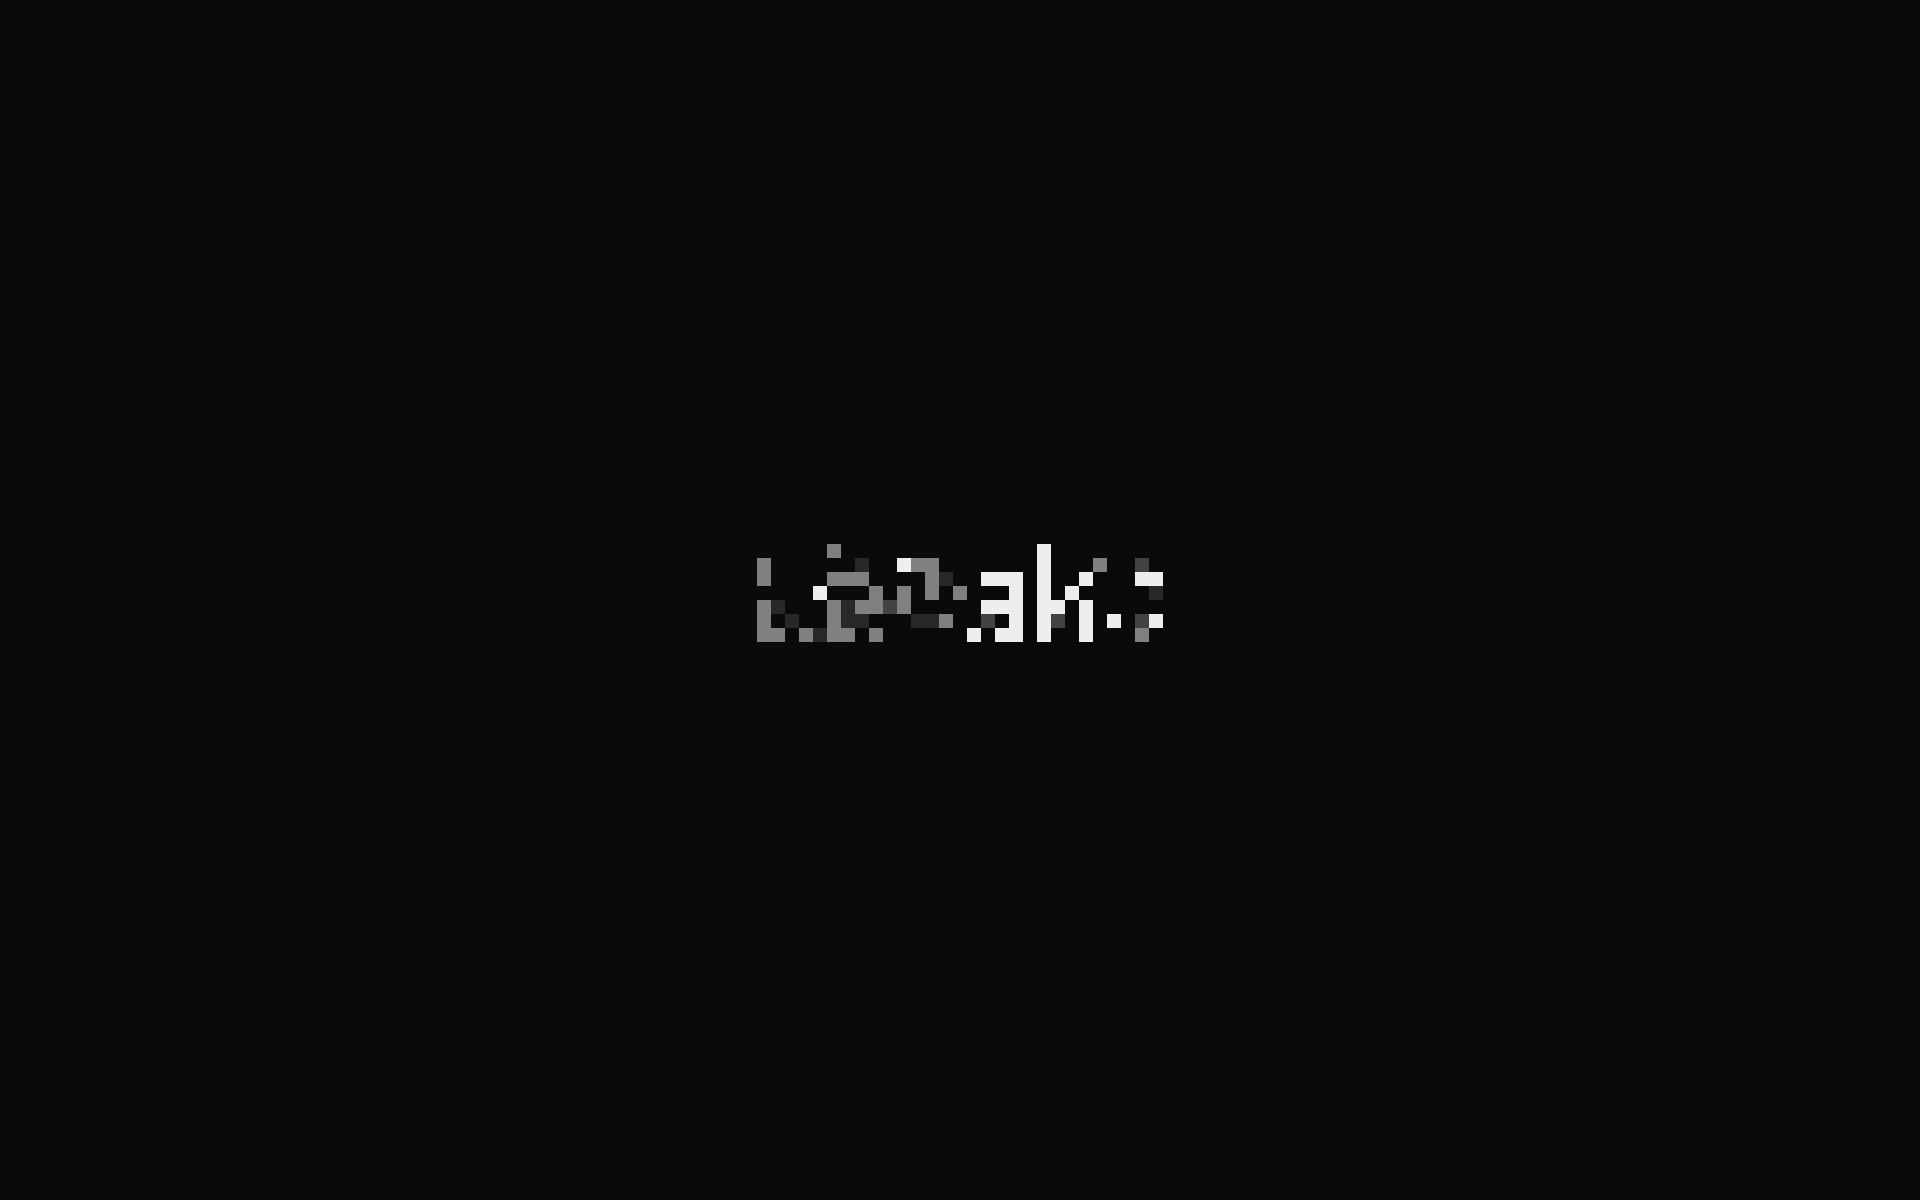
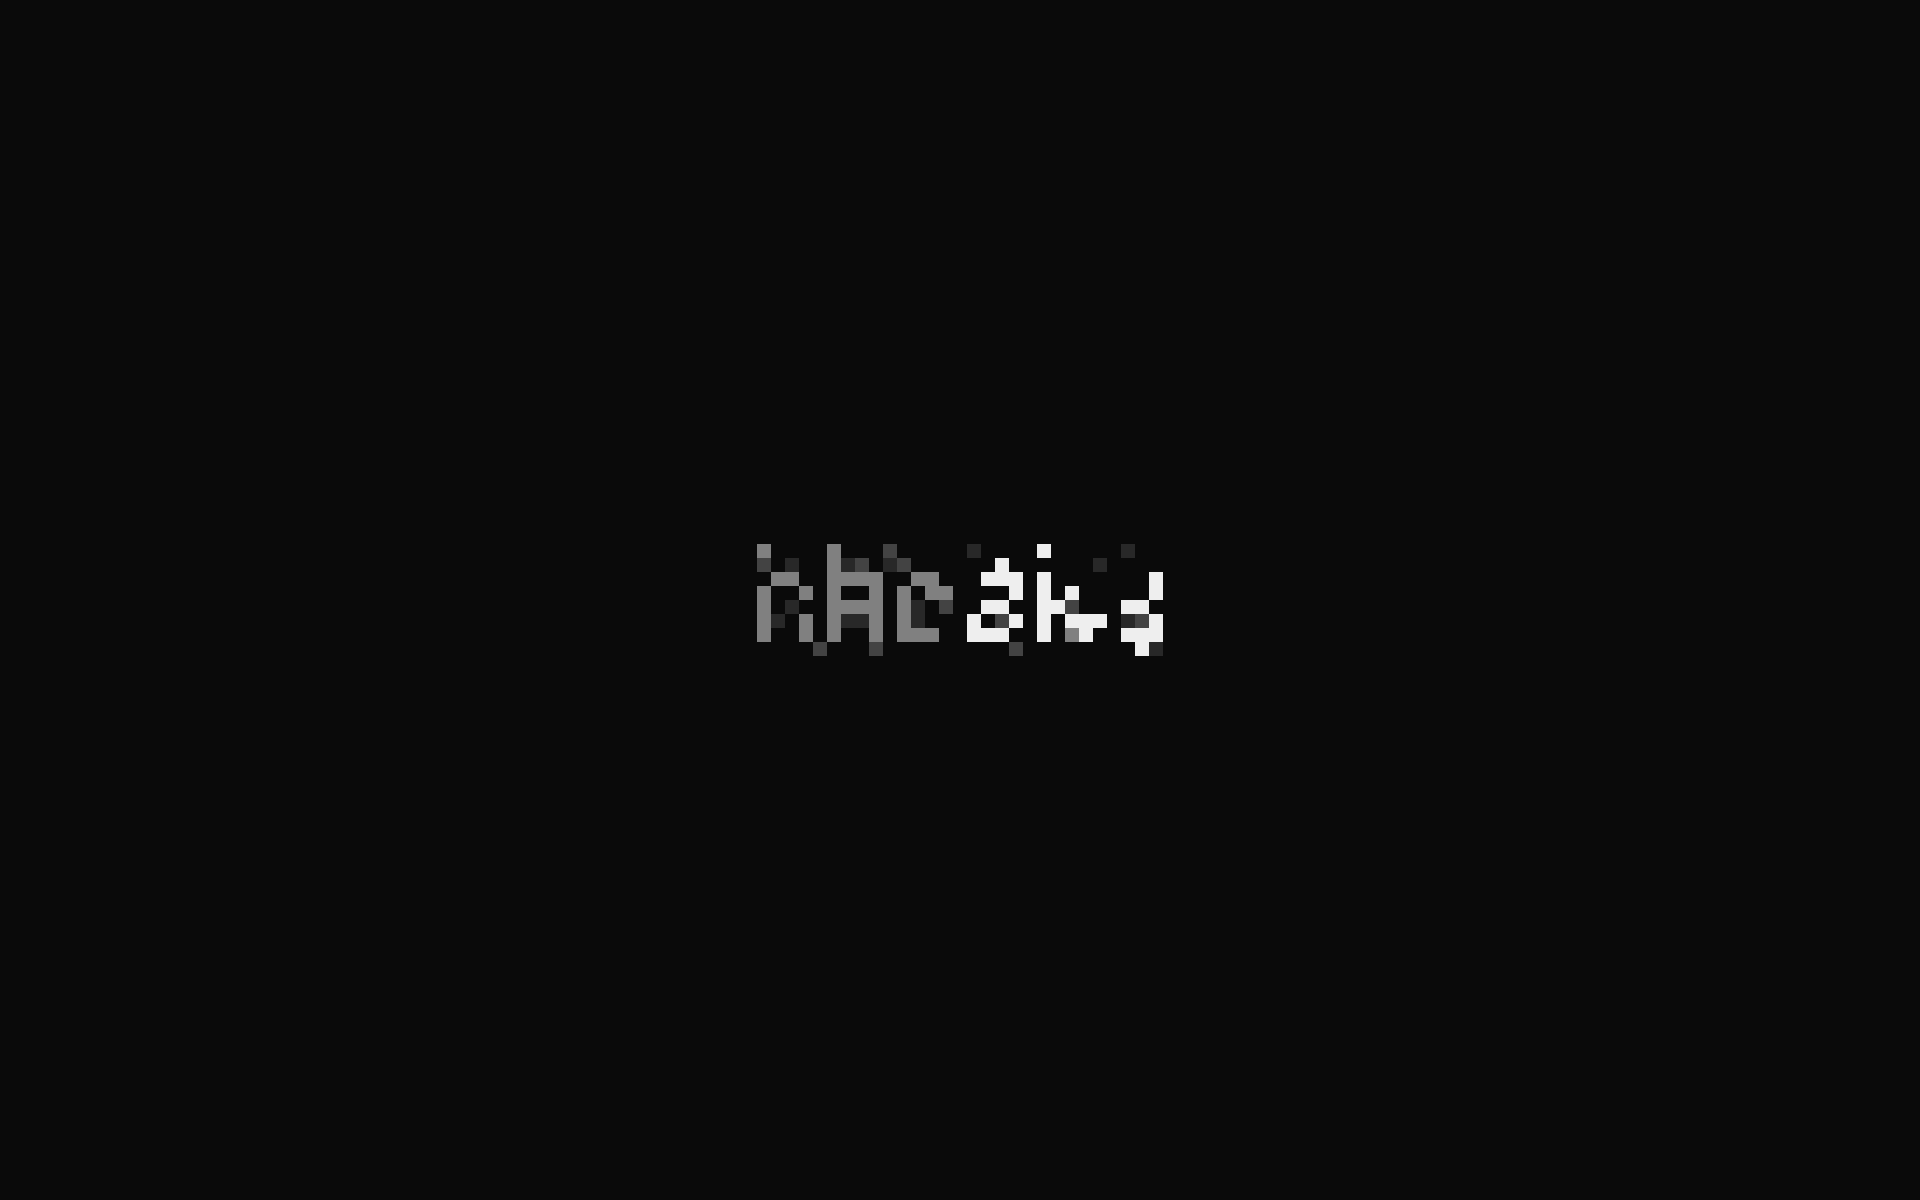
Update Windows Terminal GIF to v2 with disposal=2 and pure pixels; fix DPI and GetCursorPos signature in animator

Changed region(s): [[0.375, 0.4625, 0.625, 0.555]]

diff --git a/core/wallpaper_animator.py b/core/wallpaper_animator.py
@@ -2,8 +2,9 @@
 Desktop Wallpaper Pose Animator & Interaction Engine
 Robust, crash-proof Windows background engine for desktop wallpaper interactions:
 1. INSTANT HOVER: Deliberately hovering cursor over 'hiak' smoothly pixel-morphs into 'harsha' (Option 4 Cyber-Bot), holds for 2.6s, and returns to 'hiak'.
-2. ALWAYS-ON CLICKS: Clicking anywhere on the desktop wallpaper instantly advances mascot emotion poses.
-3. PERSISTENT & CRASH-PROOF: Auto-attaches to the interactive user desktop, logs to logs/animator.log, and recovers automatically from any system event.
+2. PURE PIXELS ONLY: While pixelating/animating, ONLY the glitching pixels are shown (NO cartoon character at all).
+3. ALWAYS-ON CLICKS: Clicking anywhere on the desktop wallpaper instantly advances mascot emotion poses.
+4. DPI-AWARE & PERSISTENT: Auto-attaches to the interactive user desktop, accounts for 150% scaling, and recovers automatically.
 """
 import ctypes
 from ctypes import wintypes
@@ -34,35 +35,38 @@ POSE_FILES = [
     "7_sleepy.png"
 ]
 
-# Ensure Win32 user32 is available
 user32 = ctypes.windll.user32
 kernel32 = ctypes.windll.kernel32
+
+# Enable Per-Monitor v2 DPI Awareness so coordinates match physical 1920x1200
+try:
+    shcore = ctypes.windll.shcore
+    shcore.SetProcessDpiAwareness(2) # PROCESS_PER_MONITOR_DPI_AWARE
+except Exception:
+    try:
+        user32.SetProcessDPIAware()
+    except Exception:
+        pass
 
 # Win32 POINT structure for 64-bit systems
 class POINT(ctypes.Structure):
     _fields_ = [("x", ctypes.c_long), ("y", ctypes.c_long)]
 
-# Setup ctypes signatures to prevent 64-bit truncation
-try:
-    user32.SetProcessDPIAware()
-except Exception:
-    pass
-
 user32.WindowFromPoint.argtypes = [POINT]
 user32.WindowFromPoint.restype = wintypes.HWND
-user32.GetCursorPos.argtypes = [ctypes.POINTER(POINT)]
+user32.GetCursorPos.argtypes = [ctypes.c_void_p]
 user32.GetCursorPos.restype = wintypes.BOOL
 user32.GetAncestor.argtypes = [wintypes.HWND, wintypes.UINT]
 user32.GetAncestor.restype = wintypes.HWND
 user32.GetClassNameW.argtypes = [wintypes.HWND, wintypes.LPWSTR, ctypes.c_int]
 user32.GetClassNameW.restype = ctypes.c_int
+user32.GetForegroundWindow.restype = wintypes.HWND
 
 
 def log_msg(msg: str):
     """Appends timestamped diagnostic messages to logs/animator.log."""
     try:
         LOG_FILE.parent.mkdir(parents=True, exist_ok=True)
-        # Keep log file under 500KB
         if LOG_FILE.exists() and LOG_FILE.stat().st_size > 500_000:
             LOG_FILE.unlink(missing_ok=True)
         ts = datetime.now().strftime("%Y-%m-%d %H:%M:%S")
@@ -75,7 +79,6 @@ def log_msg(msg: str):
 def ensure_interactive_desktop() -> bool:
     """
     Ensures the current thread is attached to the Windows interactive user desktop ('default').
-    Required when spawned from background processes, startup entries, or sandbox sessions.
     """
     GENERIC_ALL = 0x10000000
     try:
@@ -136,52 +139,60 @@ def advance_wallpaper_pose() -> str:
 
 def is_over_text(pt_x: int, pt_y: int, screen_w: int, screen_h: int) -> bool:
     """
-    Checks if cursor is deliberately hovering over the 'hiak' text area on the 1920x1200 medium centered wallpaper.
-    Exact 'hiak' text bounding box: X=[756, 1022], Y=[544, 656].
+    Checks if cursor is deliberately hovering over the 'hiak' lockup on the 1920x1200 medium centered wallpaper.
+    Physical 'hiak' text box: X=[756, 1022], Y=[544, 656].
+    Generous comfortable trigger zone: X=[680, 1100], Y=[480, 720].
     """
     scale_x = screen_w / 1920.0
     scale_y = screen_h / 1200.0
-    min_x = int(720 * scale_x)
-    max_x = int(1050 * scale_x)
-    min_y = int(515 * scale_y)
-    max_y = int(685 * scale_y)
+    min_x = int(680 * scale_x)
+    max_x = int(1100 * scale_x)
+    min_y = int(480 * scale_y)
+    max_y = int(720 * scale_y)
     return (min_x <= pt_x <= max_x) and (min_y <= pt_y <= max_y)
 
 
 def is_desktop_surface(pt_x: int, pt_y: int) -> bool:
     """
-    Accurately verifies if (pt_x, pt_y) is on the Windows desktop wallpaper.
-    Handles Windows 11 hidden icons, empty desktop areas, and ignores foreground app windows.
+    Verifies if (pt_x, pt_y) or the active foreground is on the Windows desktop wallpaper.
+    Accounts for hidden icons, WorkerW, Progman, and ignore open application windows.
     """
     try:
+        # Check foreground window first
+        fg_hwnd = user32.GetForegroundWindow()
+        if fg_hwnd:
+            fg_root = user32.GetAncestor(fg_hwnd, 2)
+            if not fg_root:
+                fg_root = fg_hwnd
+            progman = user32.FindWindowW("Progman", None)
+            if fg_root == progman:
+                return True
+            buf = ctypes.create_unicode_buffer(256)
+            user32.GetClassNameW(fg_root, buf, 256)
+            if buf.value in ["Progman", "WorkerW"]:
+                return True
+
+        # Check window directly under cursor point
         pt = POINT(pt_x, pt_y)
         hwnd = user32.WindowFromPoint(pt)
-        
-        # If WindowFromPoint returns NULL or Desktop Window handle, the cursor is directly on wallpaper
         if not hwnd or hwnd == user32.GetDesktopWindow():
             return True
 
-        # Check root ancestor (GA_ROOT = 2)
-        GA_ROOT = 2
-        root = user32.GetAncestor(hwnd, GA_ROOT)
+        root = user32.GetAncestor(hwnd, 2)
         if not root:
             root = hwnd
 
-        progman = user32.FindWindowW("Progman", "Program Manager")
+        progman = user32.FindWindowW("Progman", None)
         if root == progman:
             return True
 
         buf = ctypes.create_unicode_buffer(256)
         user32.GetClassNameW(root, buf, 256)
-        rname = buf.value
-
-        if rname in ["Progman", "WorkerW"]:
+        if buf.value in ["Progman", "WorkerW"]:
             return True
 
-        # Also check direct window class (e.g. SysListView32, WorkerW)
         user32.GetClassNameW(hwnd, buf, 256)
-        cname = buf.value
-        if cname in ["SysListView32", "WorkerW", "Progman", "SHELLDLL_DefView"]:
+        if buf.value in ["SysListView32", "WorkerW", "Progman", "SHELLDLL_DefView"]:
             return True
 
         return False
@@ -193,16 +204,14 @@ def is_desktop_surface(pt_x: int, pt_y: int) -> bool:
 def listen_for_desktop_clicks():
     """
     High-frequency non-blocking state machine for desktop wallpaper interactions:
-    1. INSTANT HOVER: The moment cursor touches 'hiak', pixel morph to 'harsha' begins.
+    1. INSTANT HOVER: Deliberate hover on 'hiak' triggers pixel morph to 'harsha' (pure pixels during transition).
     2. ALWAYS-ON CLICKS: Clicks on desktop wallpaper advance mascot emotions instantly.
-    3. CRASH-PROOF: Auto-recovers from any display change, sleep/wake, or desktop lock.
+    3. DPI-AWARE & SELF-HEALING: Recovers automatically from lock screens or display changes.
     """
-    log_msg("Starting HIAK Mascot Studio Wallpaper Engine...")
+    log_msg("Starting HIAK Mascot Studio Wallpaper Engine (DPI-Aware)...")
     
-    # Outer supervisor loop: ensures the service NEVER dies
     while True:
         try:
-            # 1. Ensure connected to user's interactive desktop
             ensure_interactive_desktop()
             
             screen_w = user32.GetSystemMetrics(0)
@@ -222,17 +231,14 @@ def listen_for_desktop_clicks():
             was_down = False
             last_click_time = 0.0
 
-            log_msg(f"Listener active! Display: {screen_w}x{screen_h}. Monitoring desktop...")
+            log_msg(f"Engine active! Resolution: {screen_w}x{screen_h}. Monitoring clicks & hover...")
 
-            # 2. Main 60Hz interaction loop
             while True:
                 now = time.time()
                 
-                # Fetch cursor position on interactive desktop
                 if not user32.GetCursorPos(ctypes.byref(pt)):
-                    # Re-attach desktop if connection was lost (e.g. lock screen or UAC)
                     ensure_interactive_desktop()
-                    time.sleep(0.1)
+                    time.sleep(0.08)
                     continue
 
                 on_desktop = is_desktop_surface(pt.x, pt.y)
@@ -246,8 +252,7 @@ def listen_for_desktop_clicks():
                         last_click_time = now
                         try:
                             pose = advance_wallpaper_pose()
-                            log_msg(f"Desktop clicked! Advanced mascot to: {pose}")
-                            # If in morph state, reset to idle with the newly clicked pose
+                            log_msg(f"⚡ Desktop clicked! Advanced mascot to: {pose}")
                             if current_state != STATE_IDLE:
                                 current_state = STATE_IDLE
                                 last_hover_exit_time = now
@@ -261,11 +266,10 @@ def listen_for_desktop_clicks():
                 hovering = on_desktop and is_over_text(pt.x, pt.y, screen_w, screen_h)
 
                 if hovering:
-                    # Trigger immediately on first touch (if idle and cooldown expired)
-                    if current_state == STATE_IDLE and (now - last_hover_exit_time > 0.6):
+                    if current_state == STATE_IDLE and (now - last_hover_exit_time > 0.5):
                         current_state = STATE_MORPH_IN_1
                         state_start_time = now
-                        log_msg("Hover over 'hiak'! Morphing into 'harsha' (Option 4 Cyber-Bot)...")
+                        log_msg("✨ Deliberate hover on 'hiak'! Pixel dissolving (pure pixels)...")
                         try:
                             f1 = MORPH_DIR / "3_3_dissolve_start.png"
                             if f1.exists():
@@ -278,7 +282,7 @@ def listen_for_desktop_clicks():
                 was_hovering = hovering
 
                 # ========================================================
-                # 3. NON-BLOCKING MORPH FRAME SEQUENCING
+                # 3. NON-BLOCKING MORPH FRAME SEQUENCING (PURE PIXELS)
                 # ========================================================
                 if current_state == STATE_MORPH_IN_1:
                     if now - state_start_time >= 0.04:
@@ -301,6 +305,7 @@ def listen_for_desktop_clicks():
                                 f3 = MORPH_DIR / "6_6_harsha_coding.png"
                             if f3.exists():
                                 apply_desktop_wallpaper(str(f3))
+                                log_msg("HARSHA active with Option 4 Floating Cyber-Bot!")
                         except Exception:
                             pass
 
@@ -321,19 +326,19 @@ def listen_for_desktop_clicks():
                         current_state = STATE_IDLE
                         last_hover_exit_time = now
                         try:
-                            # Restore active HIAK mascot pose
                             poses_dir = get_poses_dir()
                             idx = get_current_pose_index()
                             active_pose = poses_dir / POSE_FILES[idx]
                             if active_pose.exists():
                                 apply_desktop_wallpaper(str(active_pose))
+                                log_msg("Returned to HIAK with Orange Brick Mascot!")
                         except Exception:
                             pass
 
                 time.sleep(0.015)
 
         except Exception as e:
-            log_msg(f"Unexpected error in interaction supervisor: {e}. Recovering in 1s...")
+            log_msg(f"Supervisor recovered from exception: {e}")
             time.sleep(1.0)
 
 

diff --git a/core/reformat_wallpapers.py b/core/reformat_wallpapers.py
@@ -5,6 +5,8 @@ STRICT MASCOT DISPLAY RULE:
 - WHILE ANIMATING / PIXELATING: Shows ONLY the glitching/dissolving PIXELS! NO CARTOON MASCOT AT ALL!
 - AFTER hover / HARSHA state: Shows HARSHA with designated Option 4 Floating Cyber-Bot
 - WHILE RETURNING / PIXELATING: Shows ONLY the glitching/dissolving PIXELS! NO CARTOON MASCOT AT ALL!
+
+Uses GIF disposal=2 (Restore to background) so no previous frame pixels leak through!
 """
 import sys
 from pathlib import Path
@@ -86,18 +88,20 @@ def reformat_all():
     cyber_bot_img = Image.open(str(BOT_DIR / "happy.png")).convert("RGBA")
 
     stages = [
-        # Stage 1: BEFORE hover -> Pure HIAK + Designated Orange Brick Mascot
+        # Frame 0: BEFORE hover -> Pure HIAK + Designated Orange Brick Mascot
         (0.0, brick_img, "1_1_hiak_solid.png"),
-        (0.0, brick_img, "2_2_hiak_cool.png"),
-        # Stage 2: WHILE ANIMATING -> PURE PIXELS ONLY! NO MASCOT!
-        (0.3, None, "3_3_dissolve_start.png"),
-        (0.65, None, "4_4_glitch_midway.png"),
+        # Frame 1: WHILE ANIMATING -> PURE PIXELS ONLY! NO MASCOT!
+        (0.25, None, "3_3_dissolve_start.png"),
+        # Frame 2: HEAVY GLITCH -> PURE PIXELS ONLY! NO MASCOT!
+        (0.55, None, "4_4_glitch_midway.png"),
+        # Frame 3: RESOLVING INTO HARSHA -> PURE PIXELS ONLY! NO MASCOT!
         (0.85, None, "5_5_harsha_forming.png"),
-        # Stage 3: AFTER hover -> Pure HARSHA + Designated Option 4 Cyber-Bot!
+        # Frame 4: AFTER hover -> Pure HARSHA + Designated Option 4 Cyber-Bot!
         (1.0, cyber_bot_img, "6_6_harsha_cyber_bot_coding.png"),
-        (1.0, cyber_bot_img, "7_7_harsha_cyber_bot_happy.png"),
-        # Stage 4: WHILE RETURNING -> PURE PIXELS ONLY! NO MASCOT!
-        (0.45, None, "8_8_morph_return.png"),
+        # Frame 5: WHILE RETURNING -> PURE PIXELS ONLY! NO MASCOT!
+        (0.65, None, "8_8_morph_return.png"),
+        # Frame 6: GLITCH RETURNING -> PURE PIXELS ONLY! NO MASCOT!
+        (0.30, None, "9_9_morph_return_mid.png"),
     ]
     
     frames_1200p = []
@@ -108,19 +112,26 @@ def reformat_all():
         frames_1200p.append(wp)
         
     # Alias for backwards compatibility
-    frames_1200p[5].save(str(MORPH_DIR / "6_6_harsha_coding.png"))
+    frames_1200p[4].save(str(MORPH_DIR / "6_6_harsha_coding.png"))
+    frames_1200p[0].save(str(MORPH_DIR / "2_2_hiak_cool.png"))
+    frames_1200p[4].save(str(MORPH_DIR / "7_7_harsha_cyber_bot_happy.png"))
 
-    # Save animated morph GIF for Windows Terminal background & preview
+    # Save animated morph GIF with explicit disposal=2 on ALL frames
+    # disposal=2 ensures every frame restores to background so no previous character can bleed through!
+    durations = [2400, 140, 160, 180, 2800, 160, 180]
+    disposals = [2] * len(frames_1200p)
+    
     gif_path = WALLPAPERS_DIR / "hiak_harsha_morph.gif"
     frames_1200p[0].save(
         str(gif_path),
         save_all=True,
         append_images=frames_1200p[1:],
-        duration=[1500, 1000, 160, 180, 200, 2200, 1200, 220],
+        duration=durations,
+        disposal=disposals,
         loop=0,
-        optimize=True
+        optimize=False
     )
-    print("  ✅ Morph sequence & animated GIF updated: PURE PIXELS ONLY during animation!")
+    print(f"  ✅ Morph sequence & animated GIF updated with disposal=2: PURE PIXELS ONLY during animation! ({len(frames_1200p)} frames)")
 
 
 if __name__ == "__main__":

diff --git a/scripts/launch_detached.py b/scripts/launch_detached.py
@@ -1,0 +1,26 @@
+"""
+Detached Launcher for HIAK Wallpaper Interaction Engine
+Spawns pythonw.exe with DETACHED_PROCESS so it runs completely independently of any terminal/subshell session and survives command exits.
+"""
+import subprocess
+import sys
+import time
+from pathlib import Path
+import os
+
+STUDIO_ROOT = Path(__file__).parent.parent.resolve()
+DETACHED_PROCESS = 0x00000008
+CREATE_NEW_PROCESS_GROUP = 0x00000200
+
+# Terminate existing instances
+os.system('taskkill /F /IM pythonw.exe 2>nul')
+time.sleep(0.5)
+
+# Spawn fully detached background process
+p = subprocess.Popen(
+    ["C:\\Python314\\pythonw.exe", str(STUDIO_ROOT / "core" / "wallpaper_animator.py"), "listen"],
+    cwd=str(STUDIO_ROOT),
+    creationflags=DETACHED_PROCESS | CREATE_NEW_PROCESS_GROUP,
+    close_fds=True
+)
+print(f"Launched detached wallpaper animator! PID: {p.pid}")
